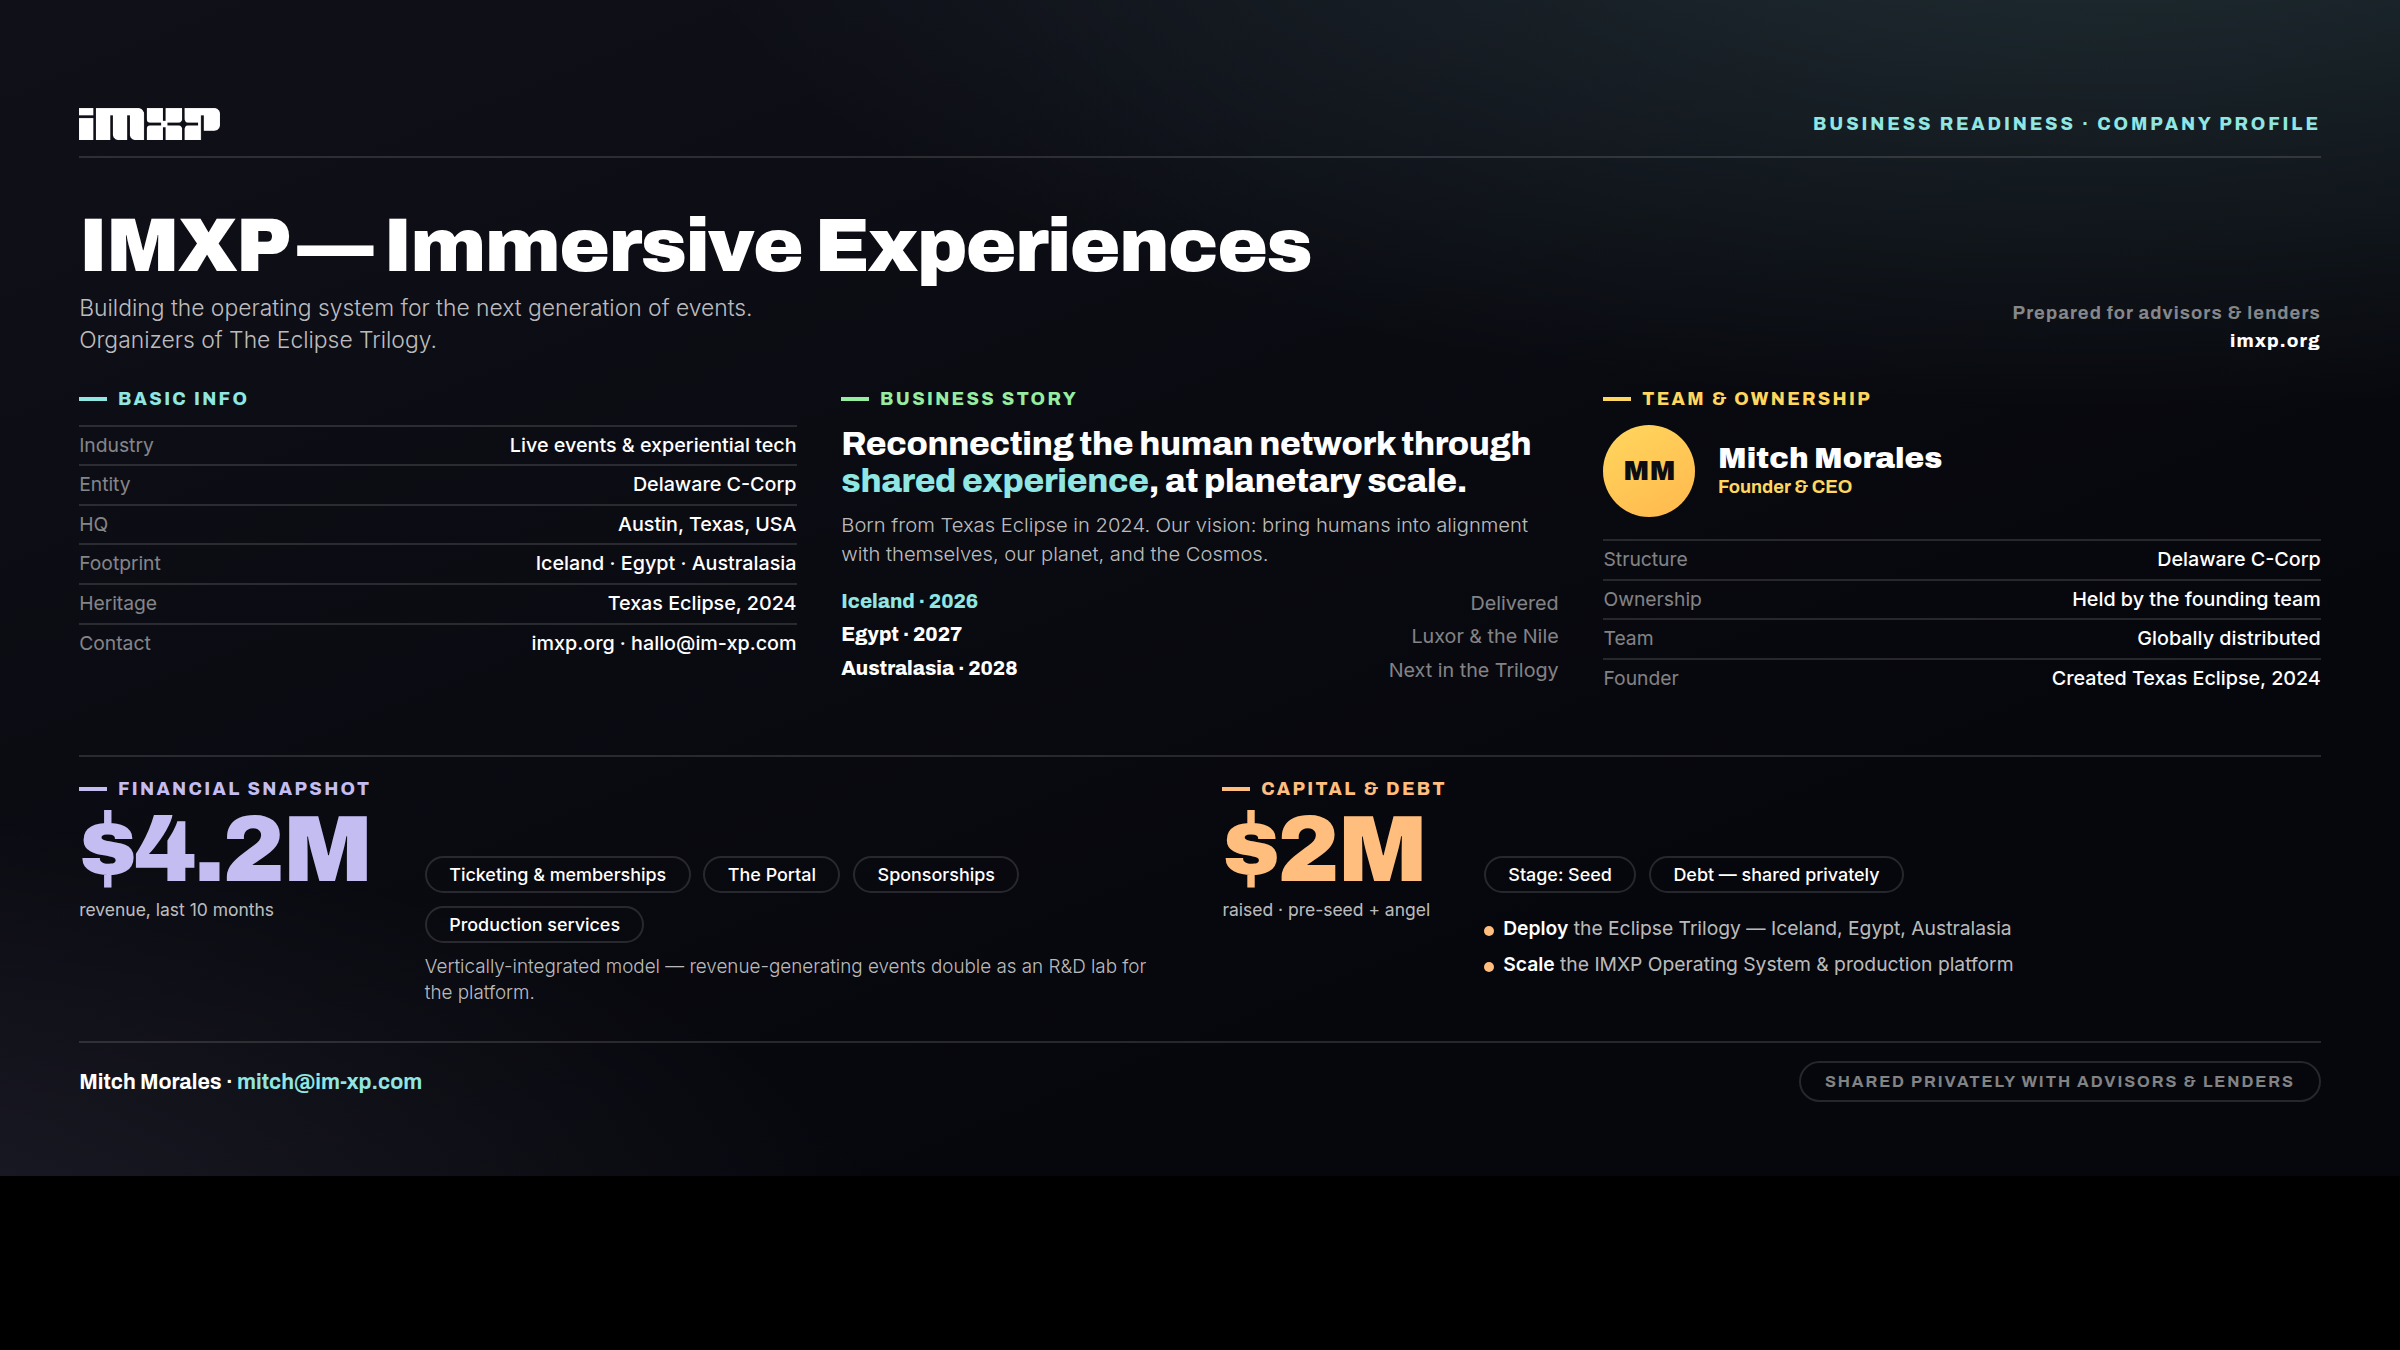
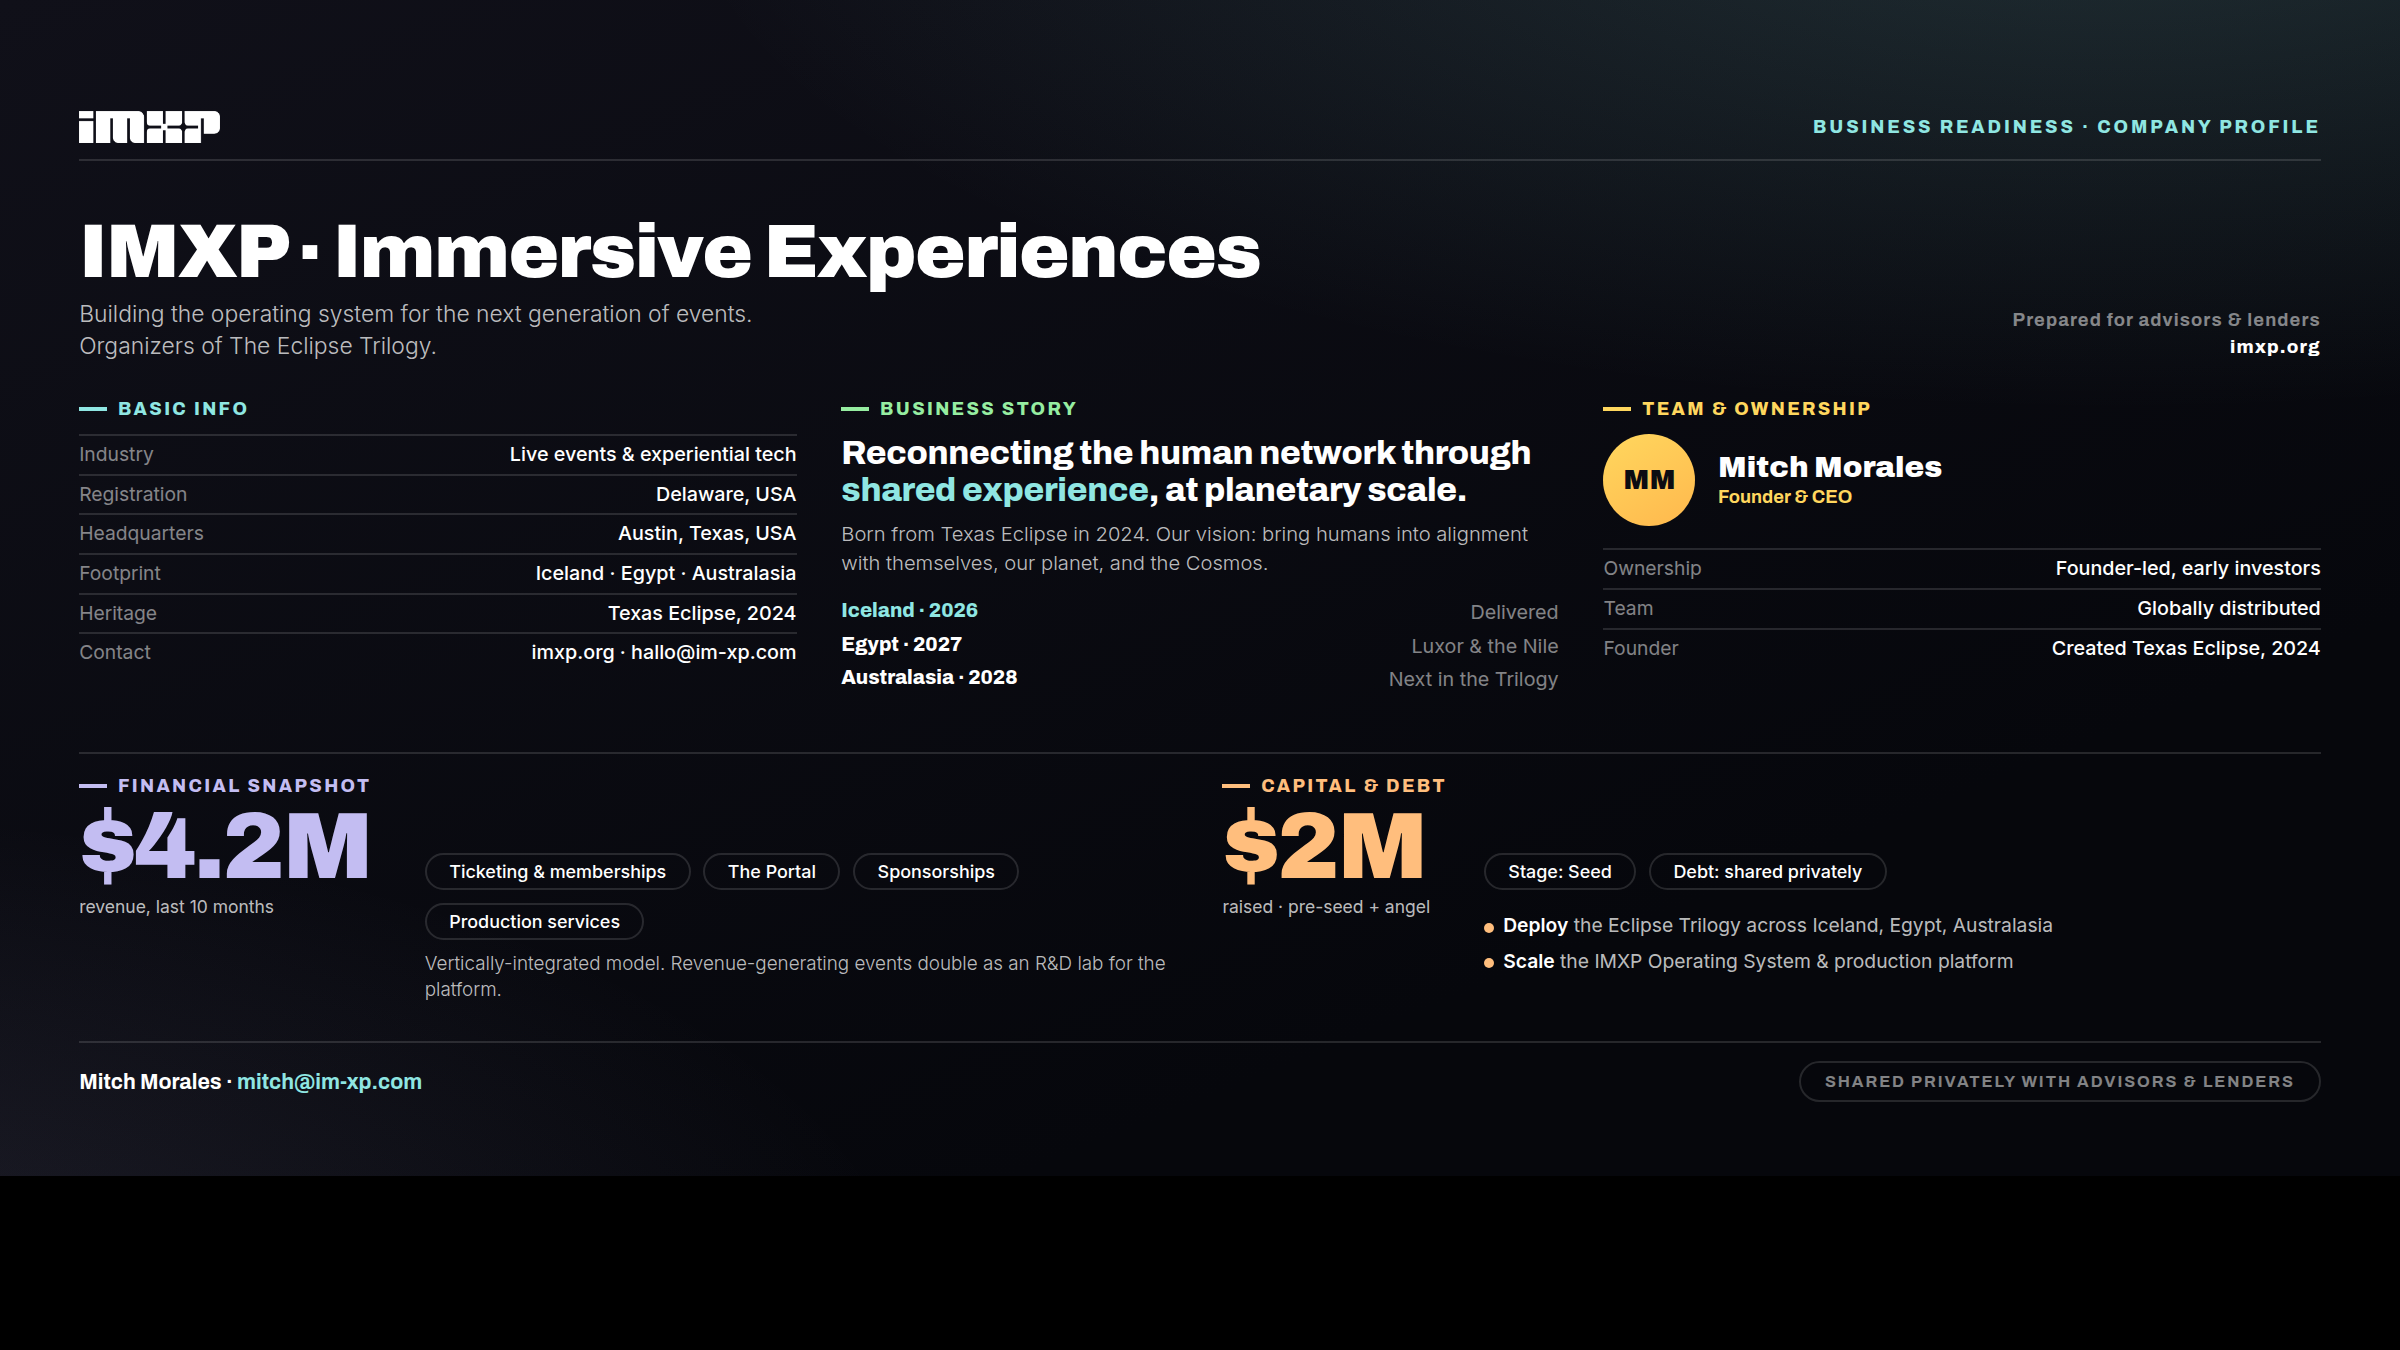
Clean and correct the data; remove em dashes
Entity: stop asserting Delaware C-Corp (verified filings are Delaware LLCs);
show Registration: Delaware, USA and drop the unverified structure row.
Ownership: Founder-led, early investors (pre-seed + angel backers exist).
Revenue stays 4.2M (human-stated); ignore broken bot sales figures. No em dashes.

diff --git a/index.html b/index.html
@@ -4,7 +4,7 @@
 <meta charset="UTF-8" />
 <meta name="viewport" content="width=device-width, initial-scale=1.0, viewport-fit=cover" />
 <title>IMXP · Business Readiness</title>
-<meta name="description" content="IMXP Business Readiness — one-page company profile for advisors and lenders." />
+<meta name="description" content="IMXP Business Readiness. One-page company profile for advisors and lenders." />
 <meta property="og:title" content="IMXP · Business Readiness" />
 <meta property="og:description" content="Building the operating system for the next generation of events." />
 <meta property="og:image" content="imxp-business-readiness.png" />
@@ -146,7 +146,7 @@
 
   <div class="top">
     <div>
-      <h1>IMXP — Immersive Experiences</h1>
+      <h1>IMXP · Immersive Experiences</h1>
       <div class="sub">Building the operating system for the next generation of events. Organizers of The Eclipse Trilogy.</div>
     </div>
     <div class="meta">Prepared for advisors &amp; lenders<br/><b>imxp.org</b></div>
@@ -156,8 +156,8 @@
     <div class="sec teal">
       <div class="h"><span>Basic Info</span></div>
       <div class="row"><span class="k">Industry</span><span class="v">Live events &amp; experiential tech</span></div>
-      <div class="row"><span class="k">Entity</span><span class="v">Delaware C-Corp</span></div>
-      <div class="row"><span class="k">HQ</span><span class="v">Austin, Texas, USA</span></div>
+      <div class="row"><span class="k">Registration</span><span class="v">Delaware, USA</span></div>
+      <div class="row"><span class="k">Headquarters</span><span class="v">Austin, Texas, USA</span></div>
       <div class="row"><span class="k">Footprint</span><span class="v">Iceland · Egypt · Australasia</span></div>
       <div class="row"><span class="k">Heritage</span><span class="v">Texas Eclipse, 2024</span></div>
       <div class="row"><span class="k">Contact</span><span class="v">imxp.org · hallo@im-xp.com</span></div>
@@ -180,8 +180,7 @@
         <div class="av">MM</div>
         <div><div class="nm">Mitch Morales</div><div class="rl">Founder &amp; CEO</div></div>
       </div>
-      <div class="row"><span class="k">Structure</span><span class="v">Delaware C-Corp</span></div>
-      <div class="row"><span class="k">Ownership</span><span class="v">Held by the founding team</span></div>
+      <div class="row"><span class="k">Ownership</span><span class="v">Founder-led, early investors</span></div>
       <div class="row"><span class="k">Team</span><span class="v">Globally distributed</span></div>
       <div class="row"><span class="k">Founder</span><span class="v">Created Texas Eclipse, 2024</span></div>
     </div>
@@ -199,7 +198,7 @@
             <div class="tag">Sponsorships</div>
             <div class="tag">Production services</div>
           </div>
-          <p style="margin-top:.6em;font-weight:300;font-size:clamp(.54rem,.84cqw,.76rem);color:var(--dim);line-height:1.4">Vertically-integrated model — revenue-generating events double as an R&amp;D lab for the platform.</p>
+          <p style="margin-top:.6em;font-weight:300;font-size:clamp(.54rem,.84cqw,.76rem);color:var(--dim);line-height:1.4">Vertically-integrated model. Revenue-generating events double as an R&amp;D lab for the platform.</p>
         </div>
       </div>
     </div>
@@ -209,9 +208,9 @@
       <div class="finrow">
         <div class="big">$2M<small>raised · pre-seed + angel</small></div>
         <div style="flex:1;min-width:40%">
-          <div class="tags"><div class="tag">Stage: Seed</div><div class="tag">Debt — shared privately</div></div>
+          <div class="tags"><div class="tag">Stage: Seed</div><div class="tag">Debt: shared privately</div></div>
           <div class="use">
-            <div class="u"><b>Deploy</b> the Eclipse Trilogy — Iceland, Egypt, Australasia</div>
+            <div class="u"><b>Deploy</b> the Eclipse Trilogy across Iceland, Egypt, Australasia</div>
             <div class="u"><b>Scale</b> the IMXP Operating System &amp; production platform</div>
           </div>
         </div>
